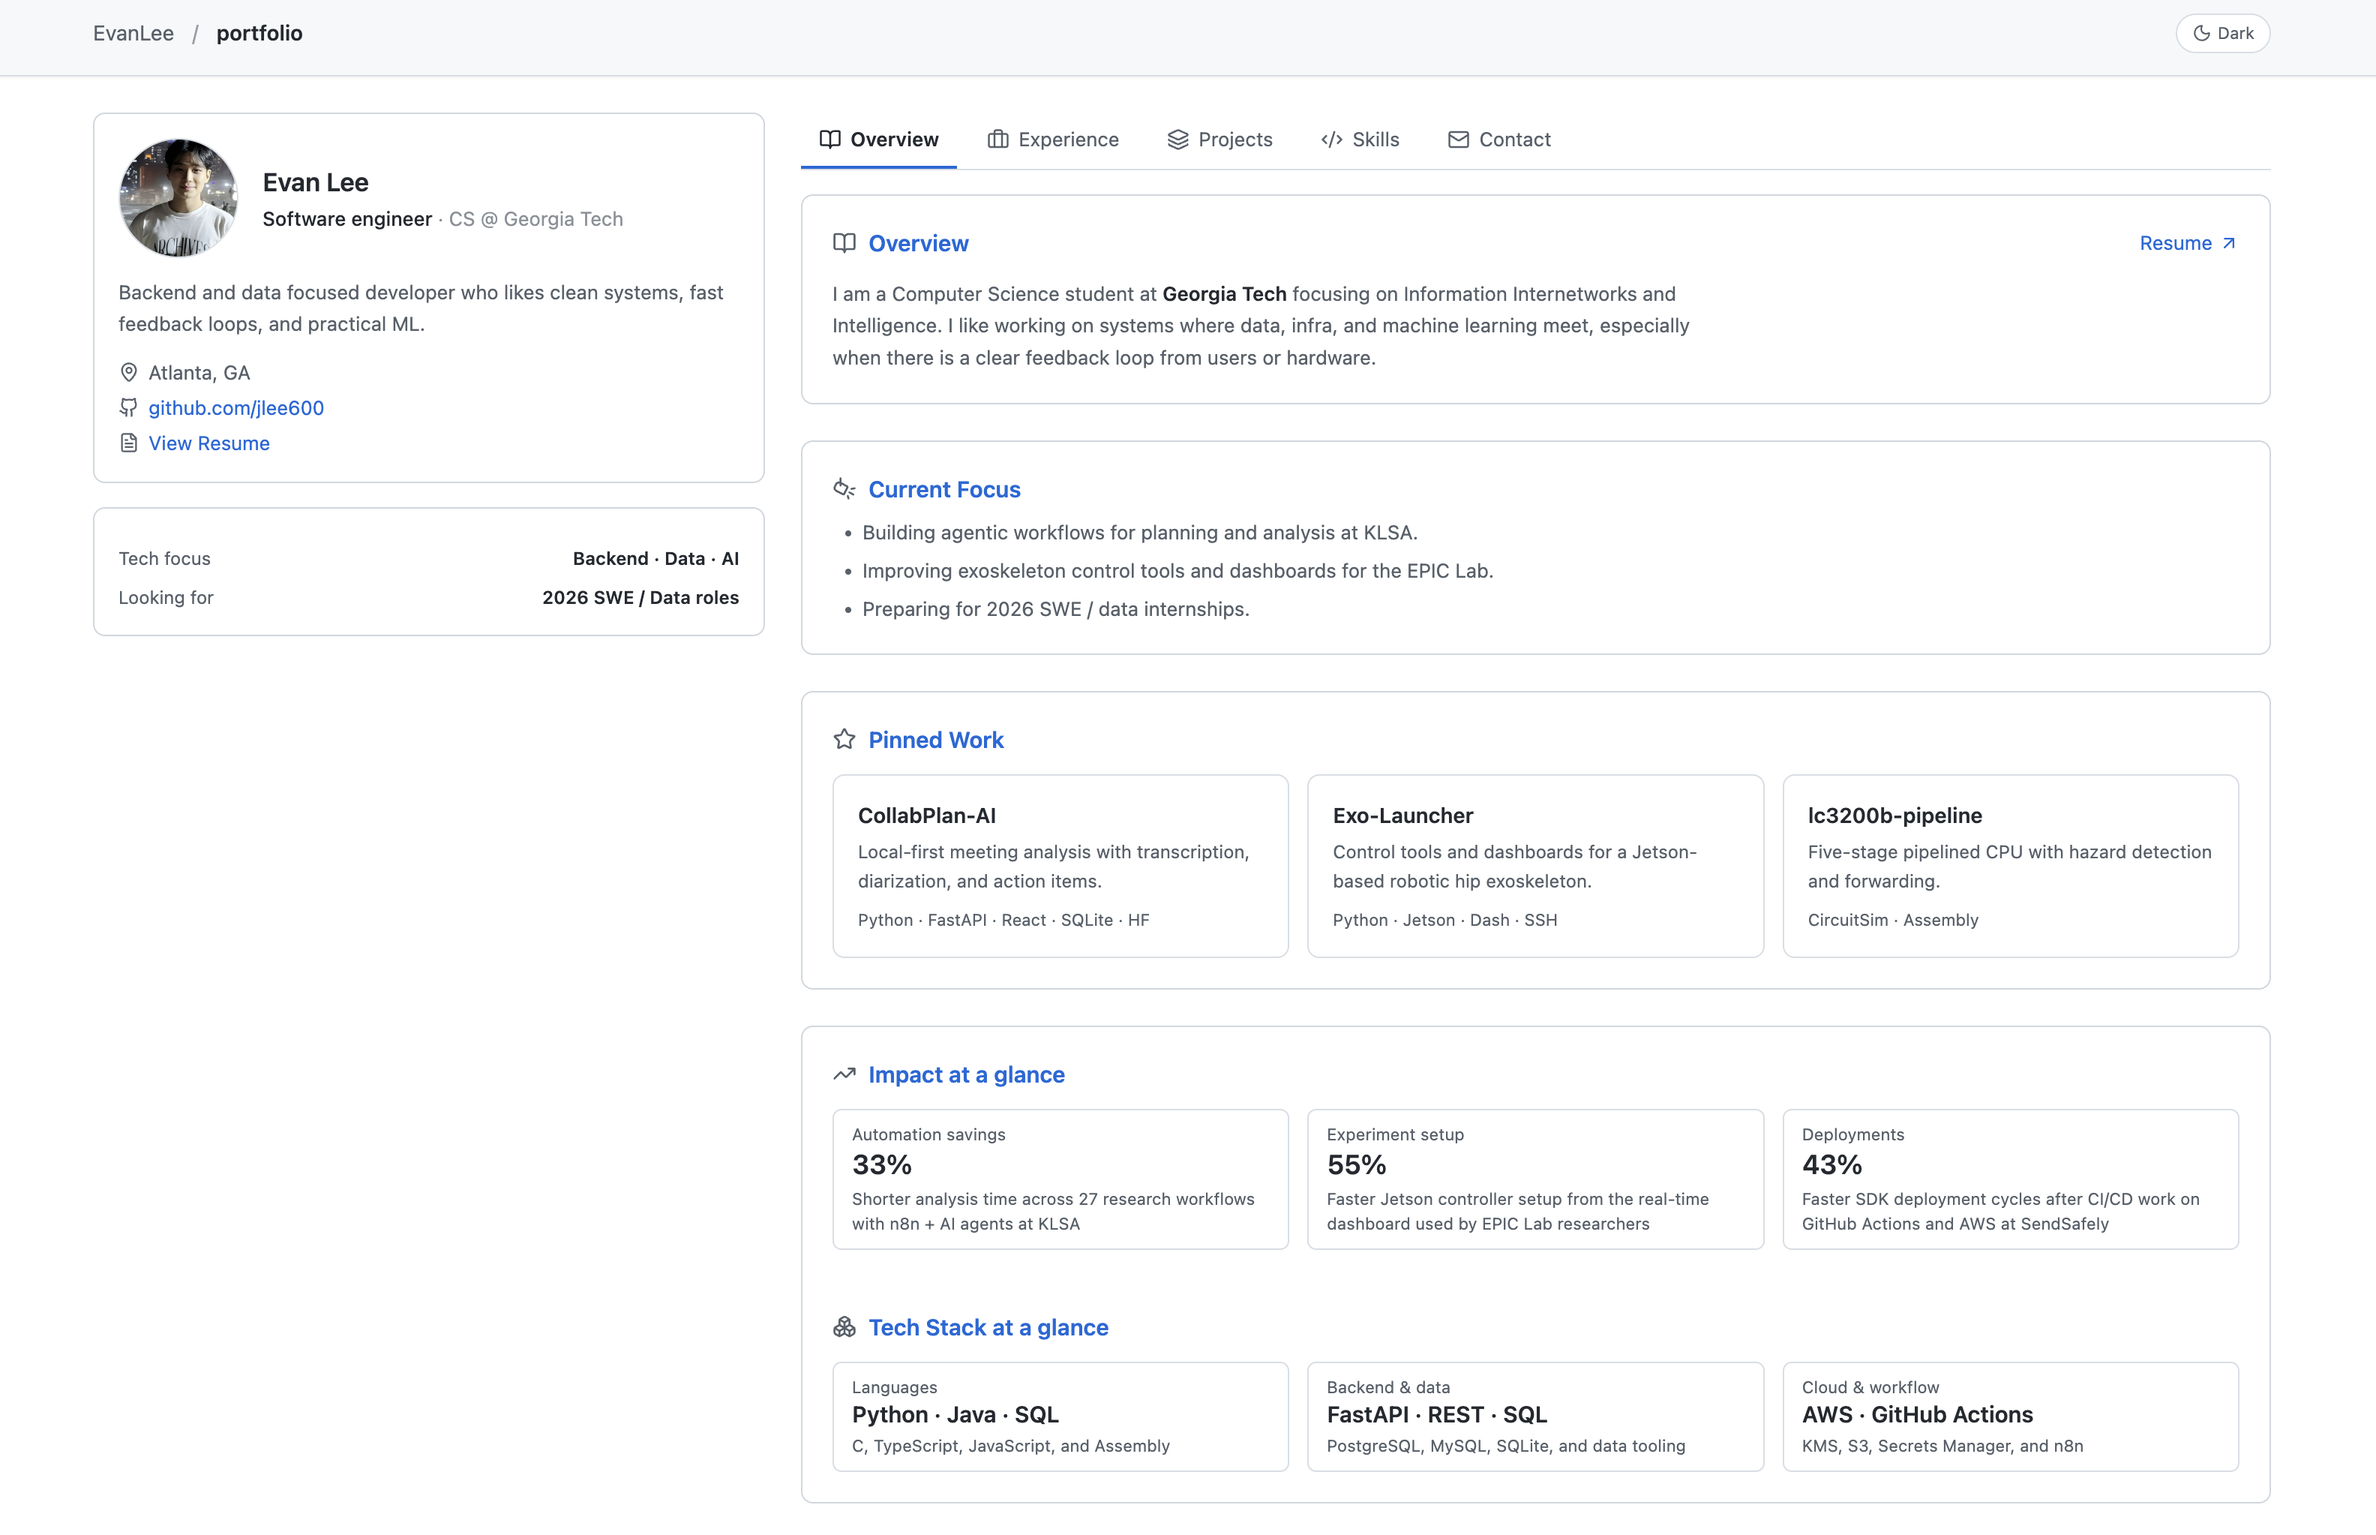
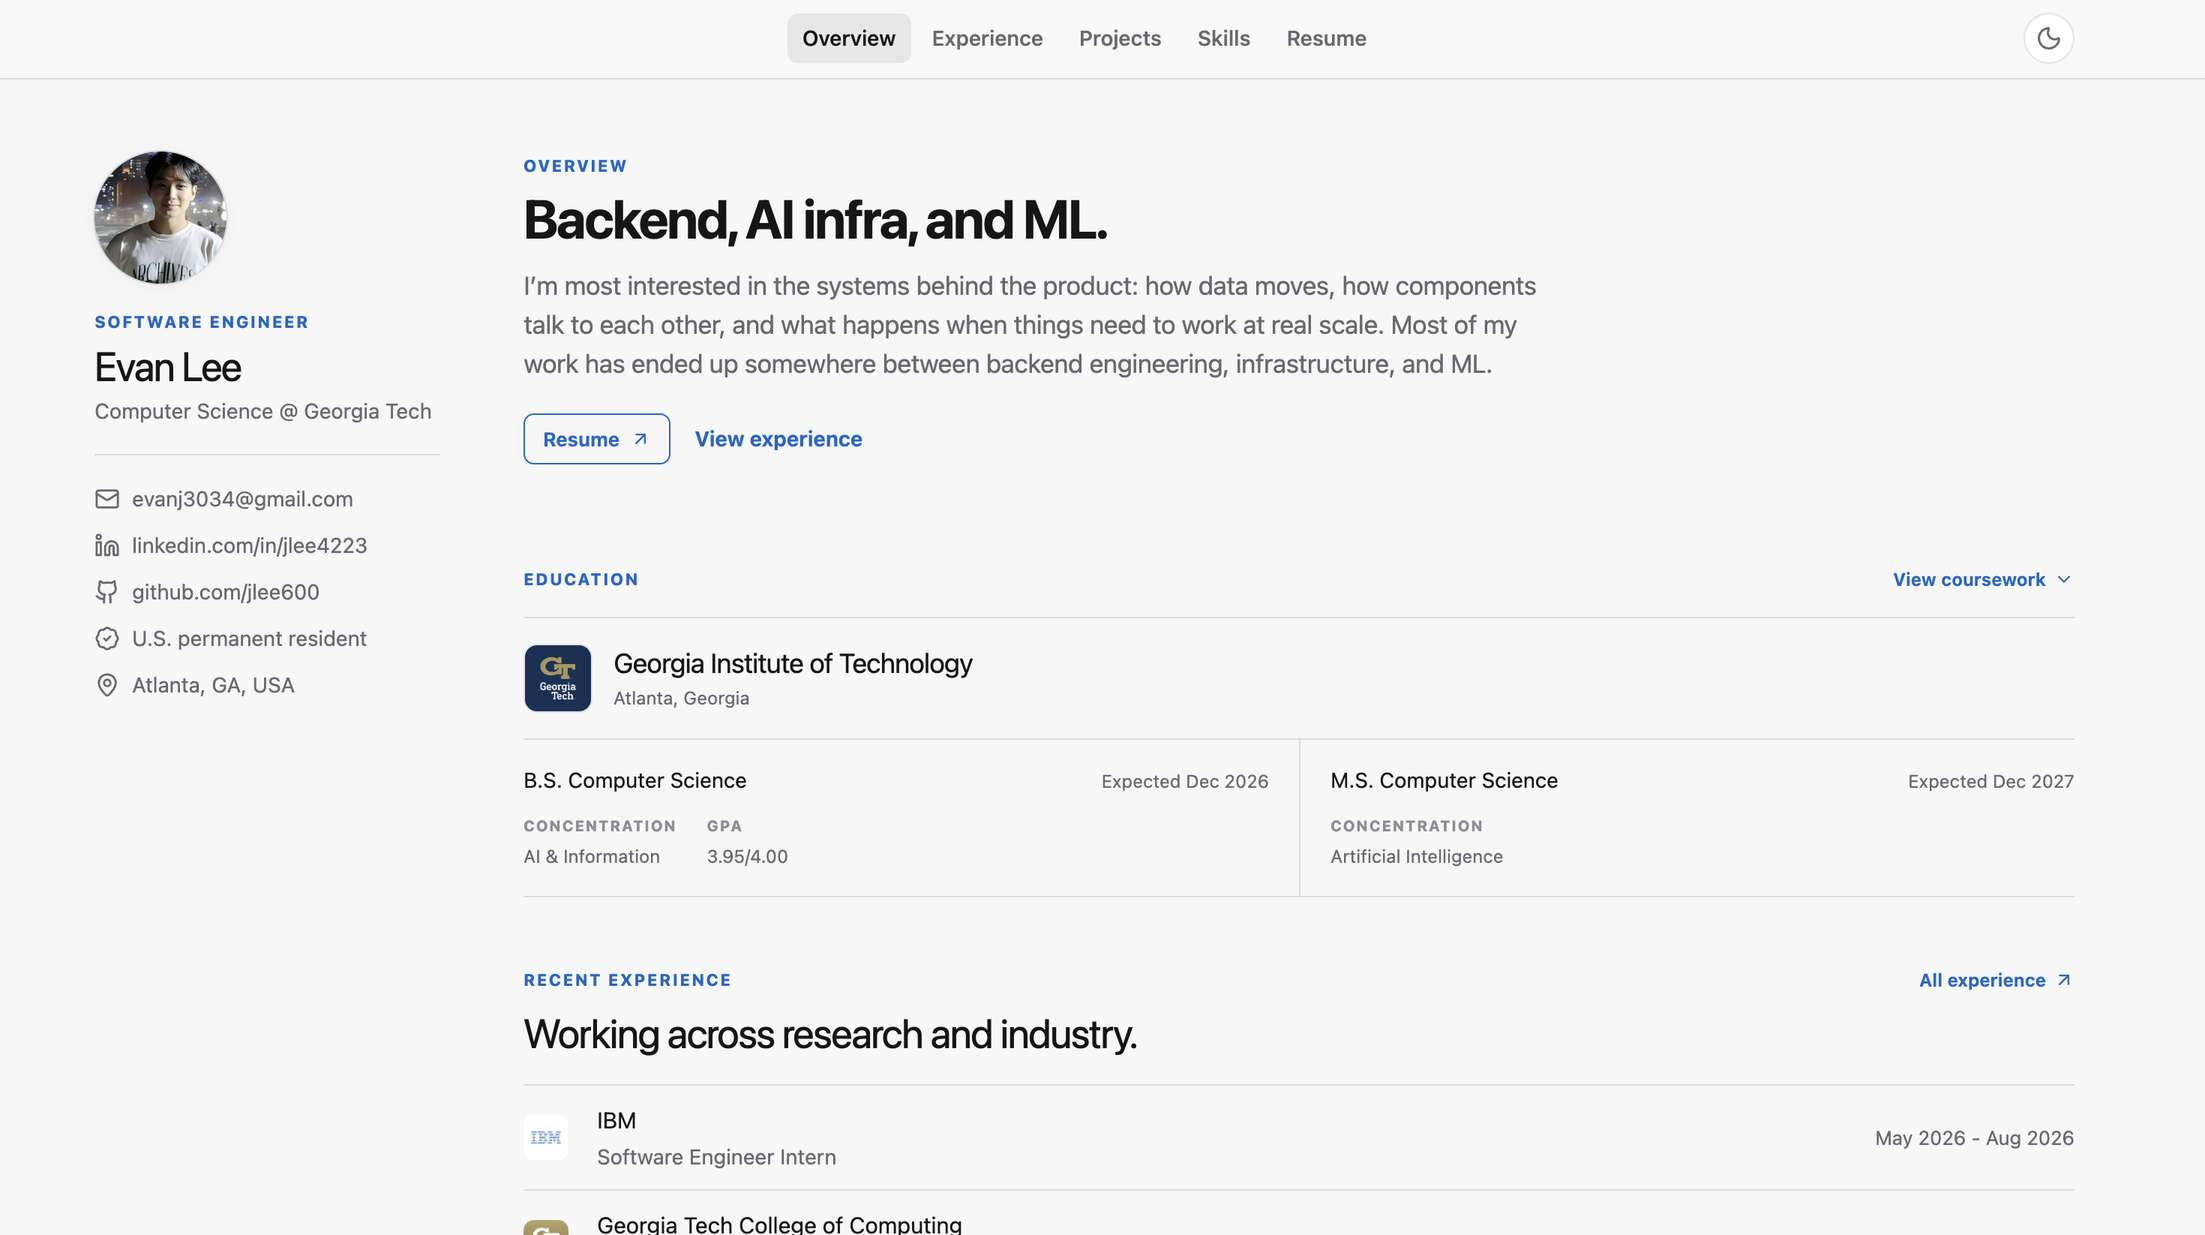
readme

diff --git a/README.md b/README.md
@@ -3,11 +3,7 @@
   <img src="my-portfolio/public/preview.png" alt="Evan Lee Portfolio Preview" width="800"/>
 </p
 
-This is my personal portfolio website, built with **React**, **TypeScript**, and **Vite**, and deployed on **Vercel**.  
-It highlights my software engineering experience, selected projects, and ongoing work in AI-driven systems and backend development.
-
-**Live site:** [https://evanlee.site](https://evanlee.site)
-
+This is my personal portfolio website highlighting software engineering experience, selected projects, and ongoing work in AI-driven systems and backend development.
 
 ## Tech Stack
 
